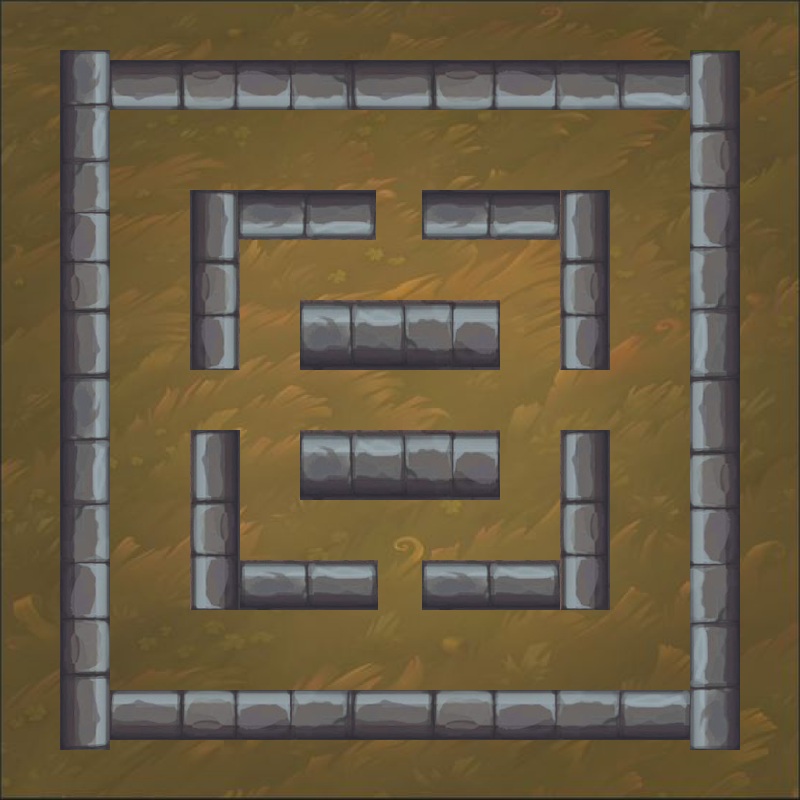
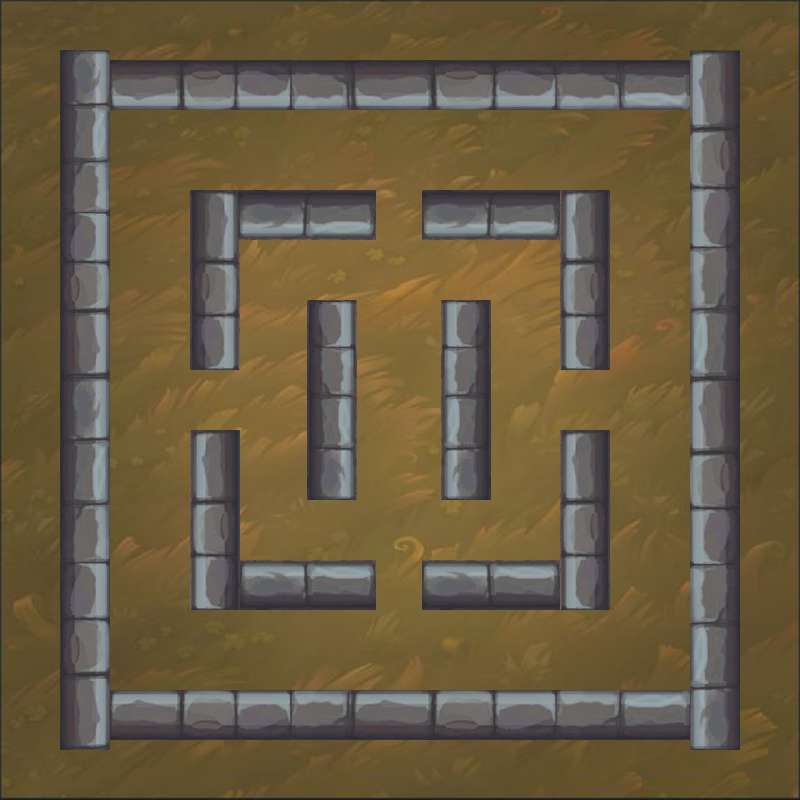
Updated hard difficulty map - updated collisions and difficulty selection logic. All collisions and food spawn bounds are correctly implemented.

Changed region(s): [[0.375, 0.375, 0.625, 0.625]]

diff --git a/src/com/threads/SnakeMovementThread.java b/src/com/threads/SnakeMovementThread.java
@@ -133,7 +133,11 @@ public class SnakeMovementThread extends Thread {
                     (snakeX > 170 && snakeX < 240) && (snakeY > 410 && snakeY < 560) ||
                     // middle wall bottom right corner
                     (snakeX > 402 && snakeX < 610) && (snakeY > 540 && snakeY < 610) ||
-                    (snakeX > 540 && snakeX < 610) && (snakeY > 410 && snakeY < 560)) {
+                    (snakeX > 540 && snakeX < 610) && (snakeY > 410 && snakeY < 560) ||
+                    // middle left pillar
+                    (snakeX > 288 && snakeX < 357) && (snakeY > 280 && snakeY < 495) ||
+                    // middle right pillar
+                    (snakeX > 421 && snakeX < 491) && (snakeY > 280 && snakeY < 495)) {
                 return true;
             }
         }
@@ -163,14 +167,38 @@ public class SnakeMovementThread extends Thread {
     private void spawnFood() {
         Random random = new Random();
         smallFood = ComponentFactory.getInstance().createSmallFood();
-        int randomX = random.nextInt(CoordinateStore.foodMinX, CoordinateStore.foodMaxX);
-        int randomY = random.nextInt(CoordinateStore.foodMinY, CoordinateStore.foodMaxY);
-        smallFood.setBounds(randomX, randomY, smallFood.getPreferredSize().width, smallFood.getPreferredSize().height);
-//        if (dif == Difficulty.EASY || dif == Difficulty.MEDIUM) {
-//
-//        } else if (dif == Difficulty.HARD) {
-//
-//        }
+        if (dif == Difficulty.EASY || dif == Difficulty.MEDIUM) {
+            int randomX = random.nextInt(CoordinateStore.foodMinX, CoordinateStore.foodMaxX);
+            int randomY = random.nextInt(CoordinateStore.foodMinY, CoordinateStore.foodMaxY);
+            smallFood.setBounds(randomX, randomY, smallFood.getPreferredSize().width, smallFood.getPreferredSize().height);
+        } else if (dif == Difficulty.HARD) {
+            boolean outOfBounds = true;
+
+            while (outOfBounds) {
+                int randomX = random.nextInt(CoordinateStore.foodMinX, CoordinateStore.foodMaxX);
+                int randomY = random.nextInt(CoordinateStore.foodMinY, CoordinateStore.foodMaxY);
+
+                if ((randomX > 170 && randomX < 376) && (randomY > 170 && randomY < 240) ||
+                        (randomX > 170 && randomX < 238) && (randomY > 220 && randomY < 370) ||
+                        // middle wall upper right corner
+                        (randomX > 402 && randomX < 610) && (randomY > 170 && randomY < 240) ||
+                        (randomX > 540 && randomX < 610) && (randomY > 170 && randomY < 370) ||
+                        // middle wall bottom left corner
+                        (randomX > 170 && randomX < 376) && (randomY > 540 && randomY < 610) ||
+                        (randomX > 170 && randomX < 240) && (randomY > 410 && randomY < 560) ||
+                        // middle wall bottom right corner
+                        (randomX > 402 && randomX < 610) && (randomY > 540 && randomY < 610) ||
+                        (randomX > 540 && randomX < 610) && (randomY > 410 && randomY < 560) ||
+                        // middle left pillar
+                        (randomX > 288 && randomX < 357) && (randomY > 280 && randomY < 495) ||
+                        // middle right pillar
+                        (randomX > 421 && randomX < 491) && (randomY > 280 && randomY < 495)) {
+                } else {
+                    smallFood.setBounds(randomX, randomY, smallFood.getPreferredSize().width, smallFood.getPreferredSize().height);
+                    break;
+                }
+            }
+        }
         GameManager.getInstance().addFood(smallFood);
     }
     private boolean foodCollision() {

diff --git a/src/com/game_utility/CoordinateStore.java b/src/com/game_utility/CoordinateStore.java
@@ -38,16 +38,15 @@ public class CoordinateStore {
             foodMinY = 228;
             foodMaxY = 550;
         } else if (dif == Difficulty.HARD) {
-            // same values as for medium for now
             borderMinX = 110;
             borderMaxX = 670;
             borderMinY = 110;
             borderMaxY = 670;
 
-            foodMinX = 232;
-            foodMaxX = 546;
-            foodMinY = 228;
-            foodMaxY = 550;
+            foodMinX = 120;
+            foodMaxX = 660;
+            foodMinY = 112;
+            foodMaxY = 670;
         }
     }
 
